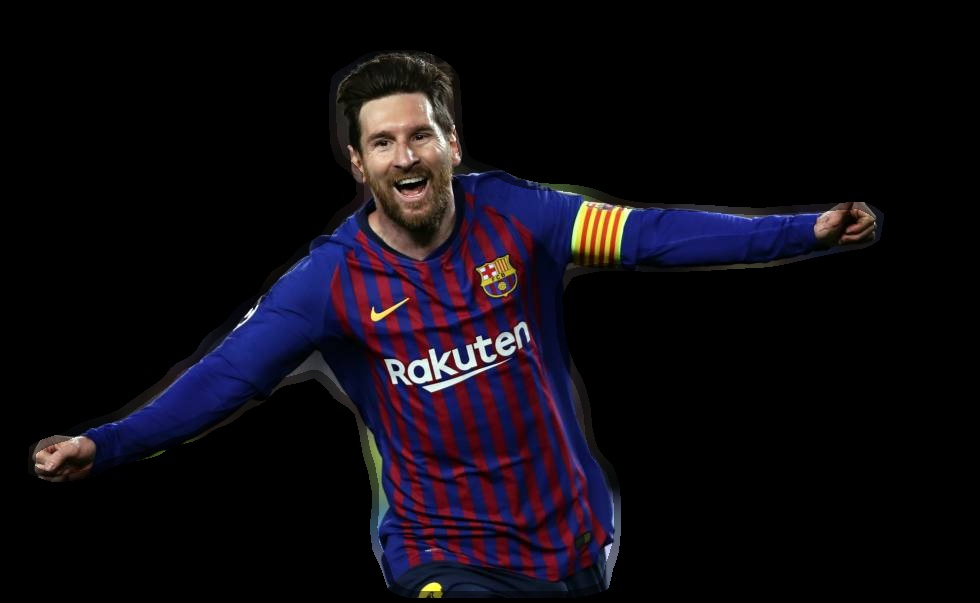
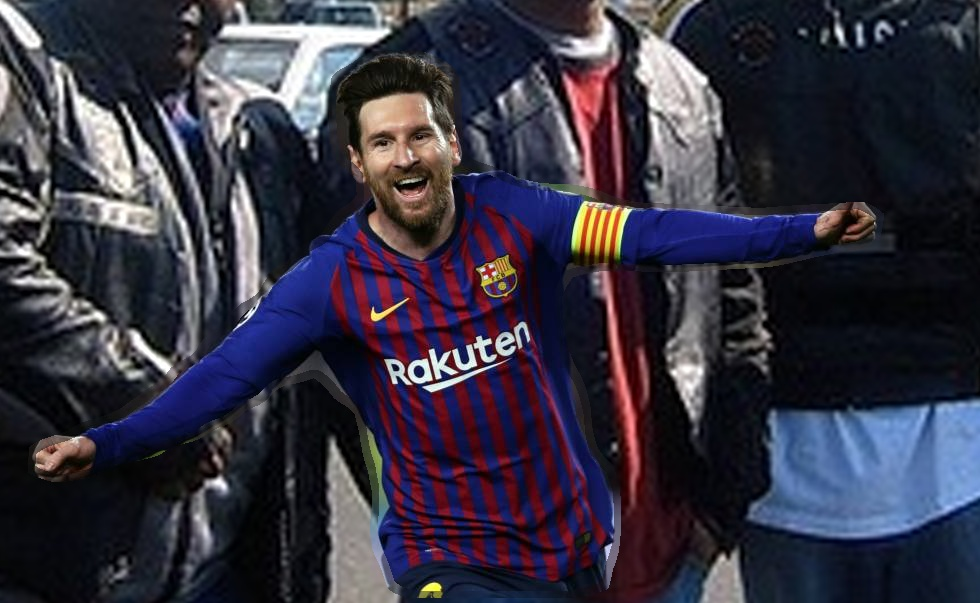
apply background

diff --git a/backend/api-nukki/python-code/imageMatting.py b/backend/api-nukki/python-code/imageMatting.py
@@ -22,7 +22,7 @@ def parser():
     parser = argparse.ArgumentParser()
     parser.add_argument('--input', type=str, default=os.path.abspath(os.path.join(os.path.dirname(__file__), "../public/input/input.jpg")))
     parser.add_argument('--inputa', type=str, default=os.path.abspath(os.path.join(os.path.dirname(__file__), "../public/input/input_a.jpg")))
-    parser.add_argument('--bg', type=str, default=os.path.abspath(os.path.join(os.path.dirname(__file__), "input/trans2000.png")))
+    parser.add_argument('--bg', type=str, default=os.path.abspath(os.path.join(os.path.dirname(__file__), "input/bg.png")))
     parser.add_argument('--savepath', type=str, default=os.path.abspath(os.path.join(os.path.dirname(__file__), "../public/result")))
     return parser.parse_args()
 
@@ -112,7 +112,7 @@ if __name__ == '__main__':
     cv.imwrite(os.path.join(opts.savepath, '0_img_original.jpg'), img_original)
     cv.imwrite(os.path.join(opts.savepath, '1_img_crop.jpg'), im)
     # 알파 이미지
-    cv.imwrite(os.path.join(opts.savepath, '3_alpha.jpg'), alpha)
+    cv.imwrite(os.path.join(opts.savepath, '2_alpha.jpg'), alpha)
 
     print('\nStart processing image: {}'.format(input_file_name))
     print('\nBackground: {}'.format(opts.bg))
@@ -120,7 +120,7 @@ if __name__ == '__main__':
     h, w = im.shape[:2]
 
     trimap = gen_trimap(alpha)
-    cv.imwrite(os.path.join(opts.savepath, '4_trimap.jpg'), trimap)
+    cv.imwrite(os.path.join(opts.savepath, '3_trimap.jpg'), trimap)
 
     x = torch.zeros((1, 4, h, w), dtype=torch.float)
     image = im[..., ::-1]  # RGB
@@ -151,7 +151,7 @@ if __name__ == '__main__':
 
     out = (pred.copy() * 255).astype(np.uint8)
     draw_str(out, (10, 20), str_msg)
-    cv.imwrite(os.path.join(opts.savepath, '5_out.jpg'), out)
+    cv.imwrite(os.path.join(opts.savepath, '4_out.jpg'), out)
 
     # new_bg = new_bgs[i]
     # new_bg = cv.imread(os.path.join(bg_test, new_bg))
@@ -166,7 +166,7 @@ if __name__ == '__main__':
                            interpolation=cv.INTER_CUBIC)
 
     im, bg = composite4(im, new_bg, pred, w, h)
-    cv.imwrite(os.path.join(opts.savepath, '7_compose.jpg'), im)
+    cv.imwrite(os.path.join(opts.savepath, '5_compose.jpg'), im)
     print('Matting Complete')
 
 

diff --git a/backend/api-nukki/python-code/detectron2/demo/demo.py b/backend/api-nukki/python-code/detectron2/demo/demo.py
@@ -92,6 +92,19 @@ def get_trimap(instances, val):
 
     cv2.imwrite(os.path.abspath(os.path.join(os.path.dirname(__file__), "../../../public/input/input_a.jpg")), img_tri)
     print('Segmentation Complete')
+
+
+def get_trimap2(instances, val):
+    mask = instances.pred_masks
+    height, width = instances.image_size
+    img_tri = np.zeros((height, width, 3), np.uint8)
+    for i in range(0, height):
+        for j in range(0, width):
+            if mask[0][i][j]:
+                img_tri = cv2.line(img_tri, (j ,i), (j, i), (255, 255, 255), 1)
+
+    cv2.imwrite(os.path.abspath(os.path.join(os.path.dirname(__file__), "../../../public/input/input_b.jpg")), img_tri)
+    print('Segmentation Complete')
     
 
 
@@ -129,4 +142,5 @@ if __name__ == "__main__":
 
         # // get trimap from result
         get_trimap(predictions["instances"].to(torch.device("cpu")), args.val)
+        get_trimap2(predictions["instances"].to(torch.device("cpu")), args.val)
         # masks = np.asarray(predictions["instances"].pred_masks)
